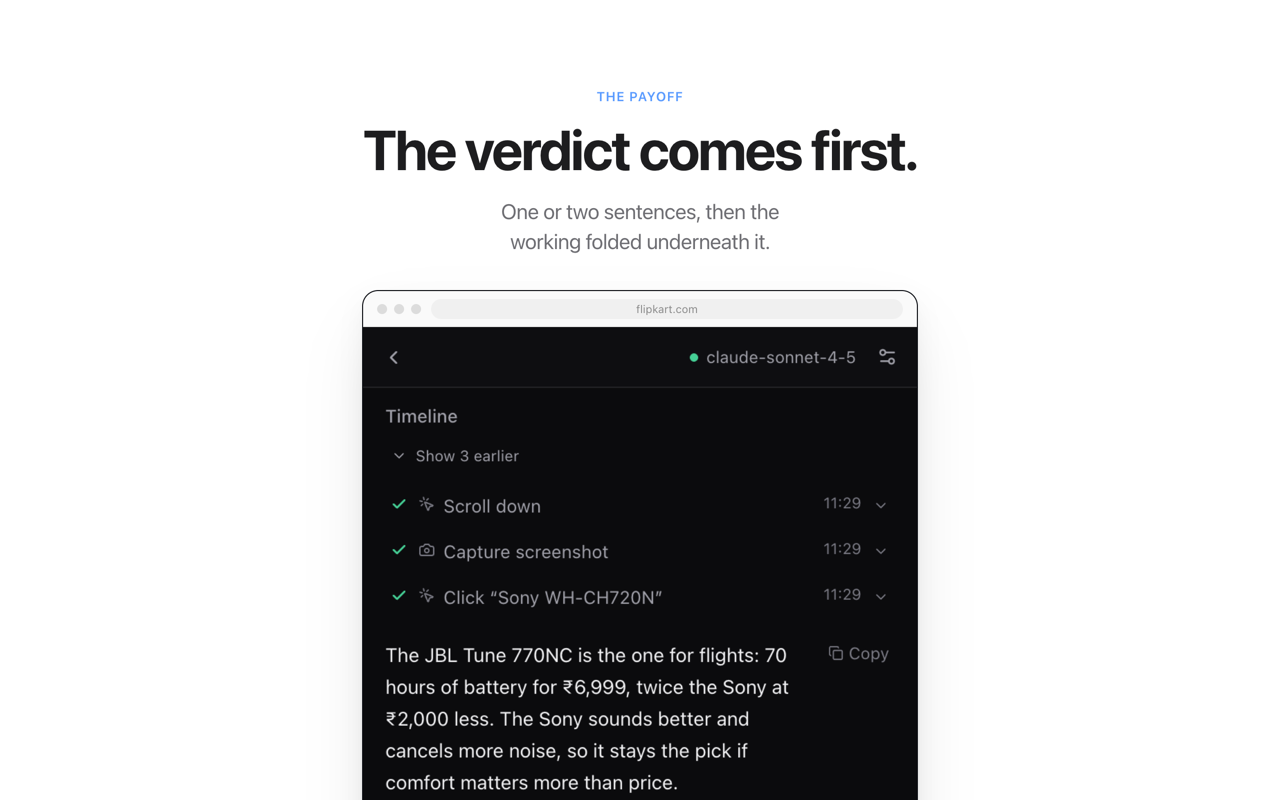
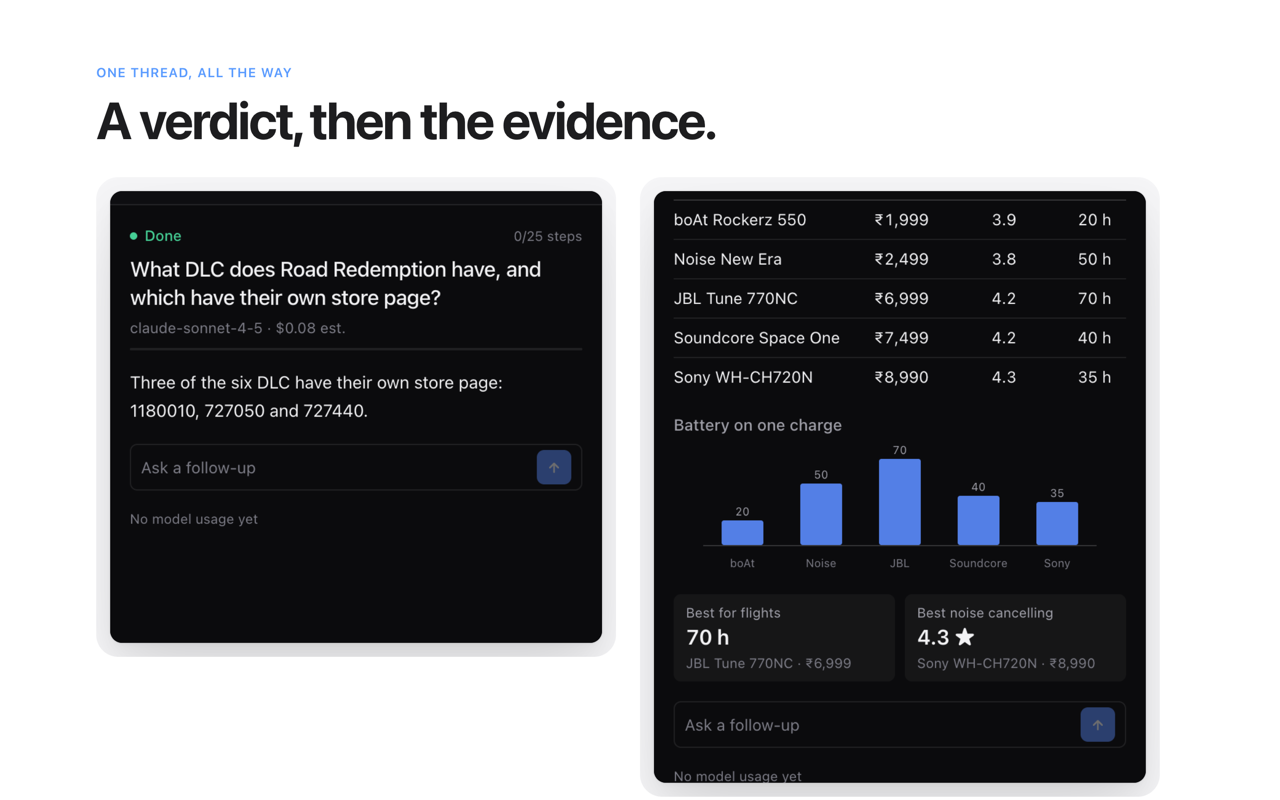
store: five states, no fake browser chrome
The previous set reused one capture behind four different headlines. Each
slide now shows a different state of the real extension: home, a run that
was closed and resumed, a step opened to its reasoning, a one-line verdict
beside a comparison table, and the privacy claims.

The fake toolbar is gone. A window frame with traffic lights and a URL pill
was decoration standing between the reader and the UI; the panel is now a
dark rounded card with a rim and a wide soft shadow, the shape the product
actually has. One fixed 400x1180 frame per state, because the panel scrolls
itself on mount and auto-sizing captured whatever was on screen.

diff --git a/store-assets/template.html b/store-assets/template.html
@@ -63,66 +63,48 @@
         text-wrap: balance;
       }
 
-      /* browser frame */
-      .window {
-        border-radius: 16px;
-        border: 1px solid var(--hairline);
+      /*
+       * The product is the panel, so the panel is the only object on the slide:
+       * a dark rounded card with a rim and a wide, soft shadow. No browser
+       * chrome, because a fake toolbar reads as decoration and steals the eye
+       * from the UI it is meant to frame.
+       */
+      .panel {
+        position: relative;
+        border-radius: 18px;
         background: #0b0d12;
         overflow: hidden;
         box-shadow:
+          inset 0 0 0 1px rgba(255, 255, 255, 0.09),
+          0 0 0 1px rgba(0, 0, 0, 0.06),
           0 2px 4px rgba(0, 0, 0, 0.02),
           0 12px 24px rgba(0, 0, 0, 0.05),
           0 32px 64px -12px rgba(0, 0, 0, 0.12);
       }
 
-      .bar {
-        height: 36px;
-        display: flex;
-        align-items: center;
-        gap: 10px;
-        padding: 0 14px;
-        background: #fafafa;
-        border-bottom: 1px solid rgba(0, 0, 0, 0.06);
-      }
+      .panel img { display: block; width: 100%; }
 
-      .dots { display: flex; gap: 7px; }
-      .dots i {
-        display: block;
-        width: 10px;
-        height: 10px;
-        border-radius: 50%;
-        background: rgba(0, 0, 0, 0.12);
-      }
+      /* Running off an edge: the panel fades out rather than being sliced. */
+      .bleed-b { -webkit-mask-image: linear-gradient(to bottom, #000 82%, transparent 100%); mask-image: linear-gradient(to bottom, #000 82%, transparent 100%); }
+      .bleed-r { -webkit-mask-image: linear-gradient(to right, #000 88%, transparent 100%); mask-image: linear-gradient(to right, #000 88%, transparent 100%); }
 
-      .pill {
-        flex: 1;
-        height: 20px;
-        border-radius: 10px;
-        background: rgba(0, 0, 0, 0.04);
-        display: flex;
-        align-items: center;
-        justify-content: center;
-        font-size: 11px;
-        letter-spacing: -0.005em;
-        color: rgba(0, 0, 0, 0.42);
-      }
-
-      .window img { display: block; width: 100%; }
+      .crop { overflow: hidden; }
 
       .card {
         background: var(--surface);
-        border-radius: 20px;
+        border-radius: 22px;
         overflow: hidden;
-      }
-
-      .card .window {
-        -webkit-mask-image: linear-gradient(to bottom, #000 76%, transparent 99%);
-        mask-image: linear-gradient(to bottom, #000 76%, transparent 99%);
       }
 
       .center { display: flex; flex-direction: column; align-items: center; text-align: center; }
 
-      .marks { margin-top: 26px; font-size: 15px; color: var(--muted); letter-spacing: -0.005em; }
+      .marks { margin-top: 8px; font-size: 14px; color: var(--muted); letter-spacing: -0.005em; }
+
+      .orb {
+        width: 26px; height: 26px; border-radius: 50%;
+        background: radial-gradient(circle at 32% 30%, #a8c8ff 0%, #5a9bff 42%, #2f5fd0 100%);
+        box-shadow: 0 0 0 1px rgba(90, 155, 255, 0.25), 0 6px 14px -6px rgba(90, 155, 255, 0.6);
+      }
     </style>
   </head>
   <body>
@@ -132,104 +114,97 @@
       const shot = params.get('s') ?? 'hero';
       const raw = params.get('raw') ?? 'raw';
 
-      const WINDOW = (src, label) => `
-        <div class="window">
-          <div class="bar">
-            <div class="dots"><i></i><i></i><i></i></div>
-            <div class="pill">${label}</div>
+      /** A panel, clipped to `height`, anchored at the top. */
+      const PANEL = (src, { width, height, offset = 0, bleed = '' } = {}) => `
+        <div class="panel ${bleed}" style="width:${width}px">
+          <div class="crop" style="height:${height}px">
+            <img src="${raw}/${src}.png" style="margin-top:${-offset}px" alt="" />
           </div>
-          <img src="${raw}/${src}.png" alt="" />
         </div>`;
 
       const SLIDES = {
-        // 1 · hero: centred type, the window oversized and bleeding off the floor
+        // 1 · hero: the greeting. Type centred, the panel oversized off the floor.
         hero: () => `
-          <div class="slide center" style="padding-top:96px">
+          <div class="slide center" style="padding-top:82px">
             <div class="eyebrow">ORBIT · Browser agent</div>
-            <h1 style="margin-top:20px;max-width:640px">Say what you need.</h1>
-            <p class="sub" style="max-width:520px">It reads the page, does the clicking and answers. You keep the tab.</p>
-            <div style="margin-top:46px;width:624px">
-              <div class="window">
-                <div class="bar">
-                  <div class="dots"><i></i><i></i><i></i></div>
-                  <div class="pill">flipkart.com</div>
-                </div>
-                <div style="height:478px;overflow:hidden">
-                  <img src="raw/rich.png" style="width:100%;display:block" alt="" />
-                </div>
-              </div>
+            <h1 style="margin-top:18px;max-width:660px">Say what you need.</h1>
+            <p class="sub" style="max-width:500px">It reads the page, does the clicking and answers. You keep the tab.</p>
+            <div style="margin-top:40px">
+              ${PANEL('home', { width: 620, height: 530, offset: 806 })}
             </div>
           </div>`,
 
-        // 2 · split: type left, a zoomed crop right that runs off the edge
+        // 2 · split: a run that was closed and picked up again. Panel on the left.
         split: () => `
           <div class="slide" style="display:flex;align-items:center">
-            <div style="width:470px;padding-left:96px">
-              <div class="eyebrow">Every step, on the record</div>
-              <h1 style="margin-top:18px;font-size:56px">Ask why it<br />clicked that.</h1>
-              <p class="sub" style="max-width:380px">Open any step for the reasoning, the result and the page it acted on.</p>
+            <div style="position:absolute;left:44px;top:34px">
+              ${PANEL('running', { width: 540, height: 760, offset: 580 })}
             </div>
-            <div style="position:absolute;left:600px;top:44px;width:520px">
-              ${WINDOW('step-open', 'flipkart.com')}
+            <div style="position:absolute;left:656px;top:238px;width:540px">
+              <div class="eyebrow">Resumable</div>
+              <h1 style="margin-top:16px;font-size:56px">Close the panel.<br />Nothing is lost.</h1>
+              <p class="sub" style="max-width:440px">Every action is checkpointed. Open it again and the run continues from the step it stopped on.</p>
             </div>
           </div>`,
 
-        // 3 · bento: two focused states side by side on card surfaces
+        // 3 · the reasoning, opened. Panel on the right this time.
+        trace: () => `
+          <div class="slide" style="display:flex;align-items:center">
+            <div style="position:absolute;left:96px;top:246px;width:470px">
+              <div class="eyebrow">Every step, on the record</div>
+              <h1 style="margin-top:16px;font-size:56px">Ask why it<br />clicked that.</h1>
+              <p class="sub" style="max-width:390px">Open any step for the reasoning, the result and exactly what the page returned.</p>
+            </div>
+            <div style="position:absolute;left:612px;top:20px">
+              ${PANEL('step-open', { width: 560, height: 780, offset: 40 })}
+            </div>
+          </div>`,
+
+        // 4 · bento: the verdict and the evidence, two crops, bleeding off the floor.
         bento: () => `
-          <div class="slide" style="padding:88px 96px 0">
-            <div class="eyebrow">One thread, start to finish</div>
-            <h1 style="margin-top:16px;max-width:900px">From a question<br />to the answer.</h1>
-            <div style="display:flex;gap:28px;margin-top:34px">
-              <div class="card" style="width:520px;height:412px;padding:18px 18px 0">
-                ${WINDOW('answer', 'flipkart.com')}
-              </div>
-              <div class="card" style="width:520px;height:412px;padding:18px 18px 0">
-                <div class="window">
-                  <div class="bar">
-                    <div class="dots"><i></i><i></i><i></i></div>
-                    <div class="pill">flipkart.com</div>
+          <div class="slide" style="padding:64px 96px 0">
+            <div class="eyebrow">One thread, all the way</div>
+            <h1 style="margin-top:12px;font-size:52px">A verdict, then the evidence.</h1>
+            <div style="display:flex;gap:24px;margin-top:30px">
+              <div class="card" style="width:520px;height:480px;padding:14px 14px 0">
+                <div class="panel" style="border-radius:12px">
+                  <div class="crop" style="height:452px">
+                    <img src="${raw}/answer.png" style="margin-top:-40px" alt="" />
                   </div>
-                  <div style="height:338px;overflow:hidden">
-                    <img src="raw/rich.png" style="width:100%;display:block;margin-top:-352px" alt="" />
+                </div>
+              </div>
+              <div class="card" style="width:520px;height:620px;padding:14px 14px 0">
+                <div class="panel" style="border-radius:12px">
+                  <div class="crop" style="height:592px">
+                    <img src="${raw}/rich.png" style="margin-top:-650px" alt="" />
                   </div>
                 </div>
               </div>
             </div>
           </div>`,
 
-        // 4 · value: the answer, large, on white, type above
-        answer: () => `
-          <div class="slide" style="padding-top:88px;display:flex;flex-direction:column;align-items:center">
-            <div class="eyebrow">The payoff</div>
-            <h1 style="margin-top:16px;max-width:760px;text-align:center;font-size:56px">The verdict comes first.</h1>
-            <p class="sub" style="max-width:500px;text-align:center">One or two sentences, then the working folded underneath it.</p>
-            <div style="margin-top:34px;width:556px">
-              ${WINDOW('answer', 'flipkart.com')}
-            </div>
-          </div>`,
-
-        // 5 · trust: no product UI, just three claims
+        // 5 · trust: no product UI at all.
         trust: () => `
-          <div class="slide center" style="justify-content:center;padding:0 140px">
-            <div class="eyebrow">No middleman</div>
-            <h1 style="margin-top:18px;max-width:760px">Your key. Your browser.</h1>
-            <p class="sub" style="max-width:560px">No account, no ORBIT server, no telemetry. The key goes from this browser straight to your provider.</p>
-            <div style="display:flex;gap:56px;margin-top:64px;text-align:left">
-              <div><div style="font-size:19px;font-weight:600">Bring your own model</div><div class="marks">OpenAI, Anthropic, Gemini, DeepSeek</div></div>
-              <div><div style="font-size:19px;font-weight:600">Nothing leaves your tab</div><div class="marks">Page content goes only to your provider</div></div>
-              <div><div style="font-size:19px;font-weight:600">MIT licensed</div><div class="marks">Read every line before you install</div></div>
+          <div class="slide center" style="justify-content:center;padding:0 150px">
+            <div class="orb" aria-hidden="true"></div>
+            <h1 style="margin-top:26px;max-width:720px">Your key. Your tab.<br />Nothing in between.</h1>
+            <p class="sub" style="max-width:560px">No account, no ORBIT server, no telemetry. Page content goes from this browser straight to the model provider you chose.</p>
+            <div style="display:flex;gap:64px;margin-top:60px;text-align:left">
+              <div><div style="font-size:18px;font-weight:600">Bring your own model</div><div class="marks">OpenAI, Anthropic, Gemini, DeepSeek</div></div>
+              <div><div style="font-size:18px;font-weight:600">Nothing leaves your tab</div><div class="marks">One provider, your key, no relay</div></div>
+              <div><div style="font-size:18px;font-weight:600">MIT licensed</div><div class="marks">Read every line before you install</div></div>
             </div>
           </div>`,
 
         // promo small: 440 x 280
         'promo-small': () => `
           <div style="width:440px;height:280px;background:var(--white);position:relative;overflow:hidden;font-family:-apple-system,BlinkMacSystemFont,'SF Pro Display','Inter',sans-serif">
-            <div style="position:absolute;left:28px;top:34px">
+            <div style="position:absolute;left:30px;top:40px">
               <div style="font-size:11px;font-weight:600;letter-spacing:.06em;text-transform:uppercase;color:var(--accent)">ORBIT</div>
-              <div style="margin-top:8px;font-size:30px;font-weight:700;letter-spacing:-.035em;line-height:1.05;color:var(--ink)">Say what<br />you need.</div>
-              <div style="margin-top:10px;font-size:13px;color:var(--muted);letter-spacing:-.005em">Browser agent, in your side panel.</div>
+              <div style="margin-top:10px;font-size:32px;font-weight:700;letter-spacing:-.035em;line-height:1.05;color:var(--ink)">Say what<br />you need.</div>
+              <div style="margin-top:12px;font-size:13px;color:var(--muted);letter-spacing:-.005em">Browser agent, in your side panel.</div>
             </div>
-            <div style="position:absolute;right:-46px;top:56px;width:210px;border-radius:12px;border:1px solid var(--hairline);overflow:hidden;box-shadow:0 2px 4px rgba(0,0,0,.02),0 12px 24px rgba(0,0,0,.05),0 32px 64px -12px rgba(0,0,0,.12)">
+            <div style="position:absolute;right:-40px;top:64px;width:200px;border-radius:12px;overflow:hidden;box-shadow:inset 0 0 0 1px rgba(255,255,255,.09),0 0 0 1px rgba(0,0,0,.06),0 2px 4px rgba(0,0,0,.02),0 12px 24px rgba(0,0,0,.05),0 32px 64px -12px rgba(0,0,0,.12)">
               <img src="${raw}/answer.png" style="width:100%;display:block" alt="" />
             </div>
           </div>`,
@@ -237,16 +212,12 @@
         // promo marquee: 1400 x 560
         'promo-marquee': () => `
           <div style="width:1400px;height:560px;background:var(--white);position:relative;overflow:hidden;display:flex;align-items:center">
-            <div style="width:620px;padding-left:96px">
+            <div style="width:640px;padding-left:96px">
               <div style="font-size:13px;font-weight:600;letter-spacing:.06em;text-transform:uppercase;color:var(--accent)">ORBIT · Browser agent</div>
-              <div style="margin-top:18px;font-size:64px;font-weight:700;letter-spacing:-.035em;line-height:1.06;color:var(--ink)">Say what<br />you need.</div>
-              <div style="margin-top:20px;font-size:21px;color:var(--muted);letter-spacing:-.01em;max-width:460px">It reads the page, does the clicking and answers. Bring your own model.</div>
+              <div style="margin-top:18px;font-size:62px;font-weight:700;letter-spacing:-.035em;line-height:1.06;color:var(--ink)">Say what<br />you need.</div>
+              <div style="margin-top:20px;font-size:21px;color:var(--muted);letter-spacing:-.01em;max-width:440px">It reads the page, does the clicking and answers. Bring your own model.</div>
             </div>
-            <div style="position:absolute;left:700px;top:64px;width:560px;border-radius:16px;border:1px solid var(--hairline);overflow:hidden;box-shadow:0 2px 4px rgba(0,0,0,.02),0 12px 24px rgba(0,0,0,.05),0 32px 64px -12px rgba(0,0,0,.12)">
-              <div style="height:36px;background:#fafafa;border-bottom:1px solid rgba(0,0,0,.06);display:flex;align-items:center;gap:10px;padding:0 14px">
-                <div style="display:flex;gap:7px"><i style="display:block;width:10px;height:10px;border-radius:50%;background:rgba(0,0,0,.12)"></i><i style="display:block;width:10px;height:10px;border-radius:50%;background:rgba(0,0,0,.12)"></i><i style="display:block;width:10px;height:10px;border-radius:50%;background:rgba(0,0,0,.12)"></i></div>
-                <div style="flex:1;height:20px;border-radius:10px;background:rgba(0,0,0,.04)"></div>
-              </div>
+            <div style="position:absolute;left:690px;top:54px;width:520px;border-radius:16px;overflow:hidden;box-shadow:inset 0 0 0 1px rgba(255,255,255,.09),0 0 0 1px rgba(0,0,0,.06),0 2px 4px rgba(0,0,0,.02),0 12px 24px rgba(0,0,0,.05),0 32px 64px -12px rgba(0,0,0,.12)">
               <img src="${raw}/rich.png" style="width:100%;display:block" alt="" />
             </div>
           </div>`,

diff --git a/README.md b/README.md
@@ -1,5 +1,5 @@
 <p align="center">
-  <img src="docs/screenshots/hero-white.jpg" alt="ORBIT in the Chrome side panel: a question, the steps it took, and the answer" width="100%" />
+  <img src="store-assets/final/screenshot-1.png" alt="ORBIT in the Chrome side panel: a question, the steps it took, and the answer" width="100%" />
 </p>
 
 <p align="center">
@@ -58,23 +58,19 @@ Most browser AI stops at "here is what you could do." ORBIT does the thing — t
 ## Screenshots
 
 <p align="center">
-  <a href="store-assets/final/screenshot-1.png"><img src="store-assets/final/screenshot-1.png" alt="ORBIT answering a comparison inside the browser side panel" width="100%" /></a>
-</p>
-
-<p align="center">
-  <a href="store-assets/final/screenshot-2.png"><img src="store-assets/final/screenshot-2.png" alt="A step opened: the reasoning, the result and the screenshot" width="49%" /></a>
+  <a href="store-assets/final/screenshot-2.png"><img src="store-assets/final/screenshot-2.png" alt="Close the panel mid-run and pick it up again" width="49%" /></a>
   &nbsp;
-  <a href="store-assets/final/screenshot-3.png"><img src="store-assets/final/screenshot-3.png" alt="Two states side by side: the answer and its comparison table" width="49%" /></a>
+  <a href="store-assets/final/screenshot-3.png"><img src="store-assets/final/screenshot-3.png" alt="A step opened: the reasoning, the result and what the page returned" width="49%" /></a>
 </p>
 
 <p align="center">
-  <a href="store-assets/final/screenshot-4.png"><img src="store-assets/final/screenshot-4.png" alt="The verdict first, the working folded underneath" width="49%" /></a>
+  <a href="store-assets/final/screenshot-4.png"><img src="store-assets/final/screenshot-4.png" alt="A one-line verdict next to a comparison table and chart" width="49%" /></a>
   &nbsp;
   <a href="store-assets/final/screenshot-5.png"><img src="store-assets/final/screenshot-5.png" alt="Bring your own model, nothing leaves your tab, MIT licensed" width="49%" /></a>
 </p>
 
 Every shot is a capture of the real extension, driven through its own UI and
-chrome.storage, then composed on white. Rebuild them with
+`chrome.storage`, then composed on white. Rebuild them with
 `node store-assets/capture.mjs && node store-assets/render.mjs`.
 
 ## Install
